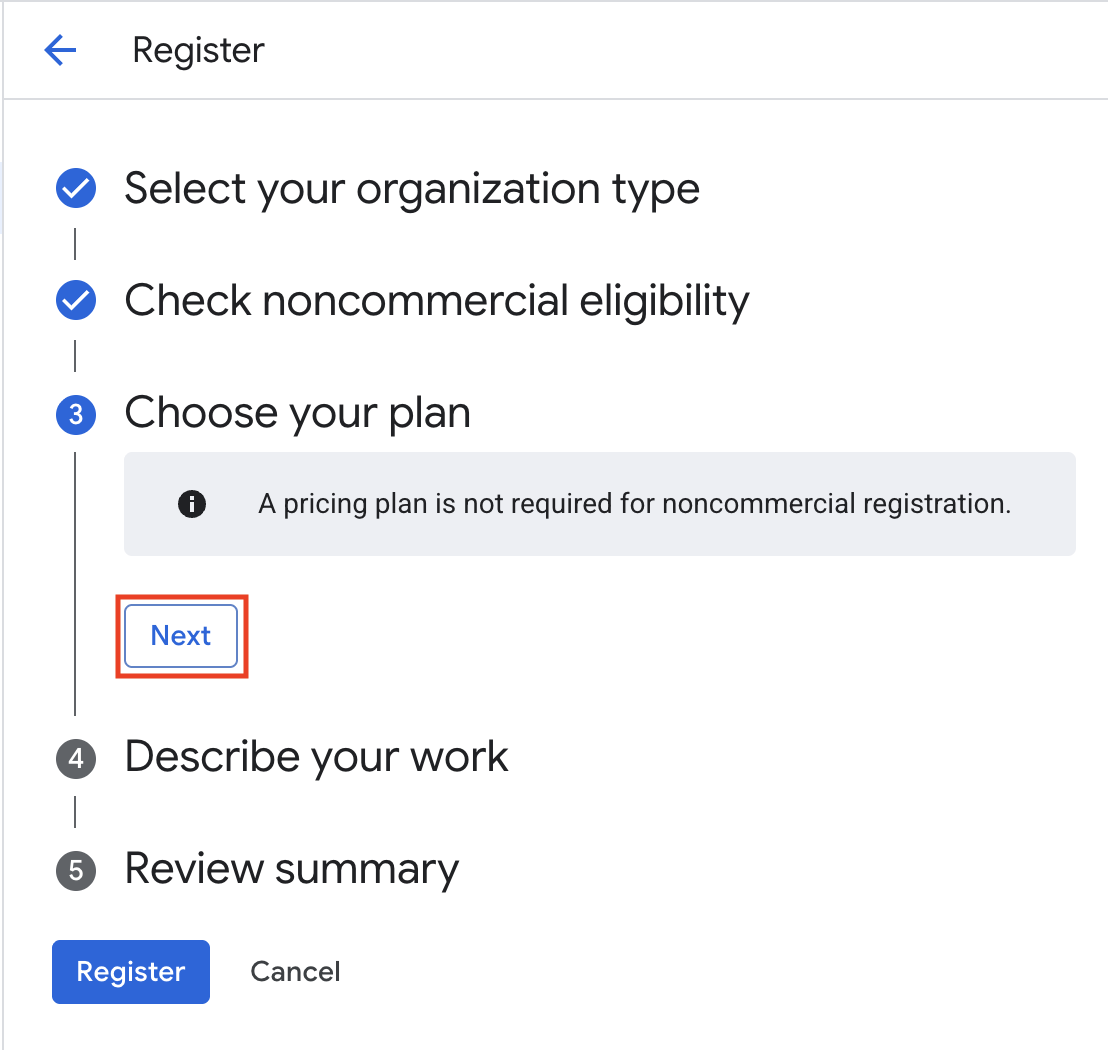
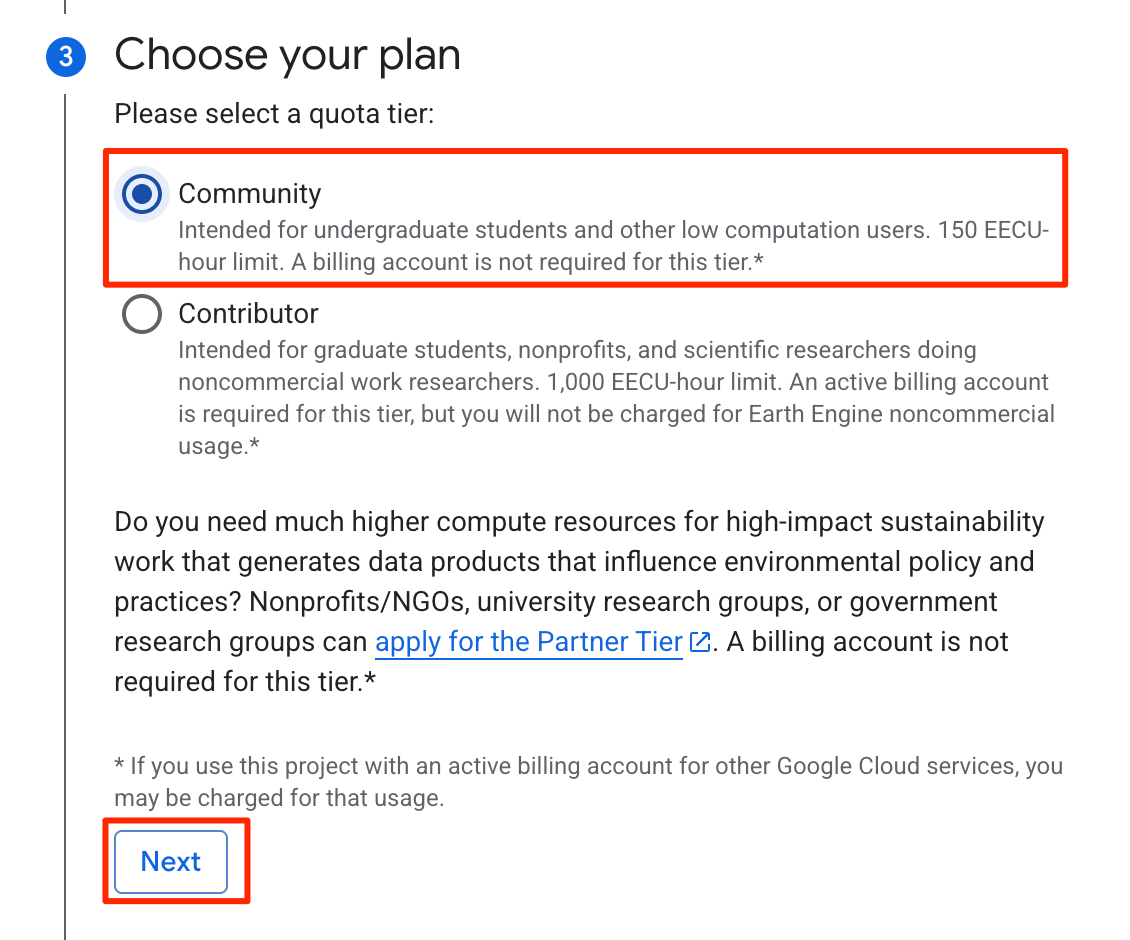
update

Changed region(s): [[0.0, 0.0, 0.9513, 0.4936], [0.0307, 0.5245, 0.9206, 0.7404], [0.0307, 0.8021, 0.9513, 0.9872]]

diff --git a/docs/gee-sign-up.html b/docs/gee-sign-up.html
@@ -331,9 +331,19 @@ commercial Earth Engine. Click <em>Next</em> to proceed.</li>
 </ol>
 <p><img src="images/gee_sign_up/cloud4.png" width="50%" style="display: block; margin: auto;" /></p>
 <ol start="6" style="list-style-type: decimal">
-<li>Under the <em>Choose your plan</em> section, you will see a note of
-<em>A pricing plan is not required for noncommercial project</em>. Click
-<em>Next</em> and proceed.</li>
+<li>Under the <em>Choose your plan</em> section, you will be asked to
+select a non-commercial quota tier. For new users of Earth Engine and
+participants of our courses, it is recommended to select the
+<code>Community</code> tier. This will help you get started with no
+additional configuration and allows you to explore the platform. If you
+intend to use Earth Engine for large computations, you can later update
+your project to the <code>Contributor</code> tier. This requires you to
+setup a billing account to verify your identity and you get higher
+quota. However, note that setting up a <a
+href="https://docs.cloud.google.com/billing/docs/concepts#billing_account">Cloud
+Billing Account</a> can be tricky and the process depends on your
+location and available payment methods. Click <em>Next</em> and
+proceed.</li>
 </ol>
 <p><img src="images/gee_sign_up/cloud6.png" width="50%" style="display: block; margin: auto;" /></p>
 <ol start="7" style="list-style-type: decimal">

diff --git a/docs/gee-dw-monitoring.html b/docs/gee-dw-monitoring.html
@@ -548,8 +548,8 @@ tab and it will show up.</p>
 </div>
 <div id="get-the-workshop-video" class="section level2">
 <h2>Get the Workshop Video</h2>
-<p>The course is accompanied by a video with an overview of the dataset
-and selected applications. This video is recorded from the
+<p>The workshop is accompanied by a video with an overview of the
+dataset and selected applications. This video is recorded during the
 <em>Monitoring Land Use &amp; Land Cover changes with Dynamic World</em>
 session at the Geo for Good 2024 conference.</p>
 <p><a href="https://www.youtube.com/watch?v=Cgrni-DsEfo"
